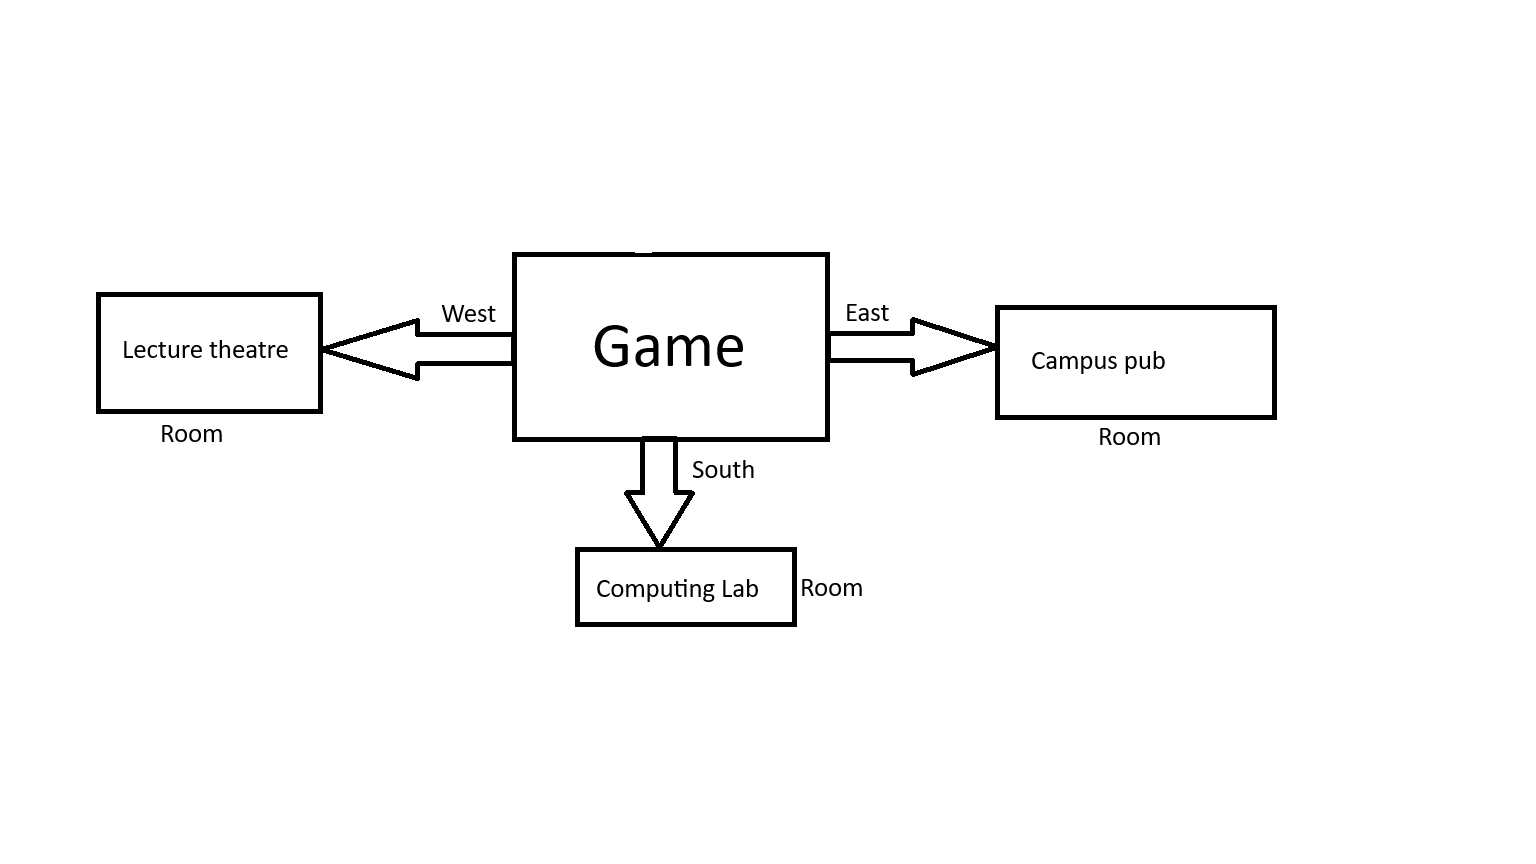
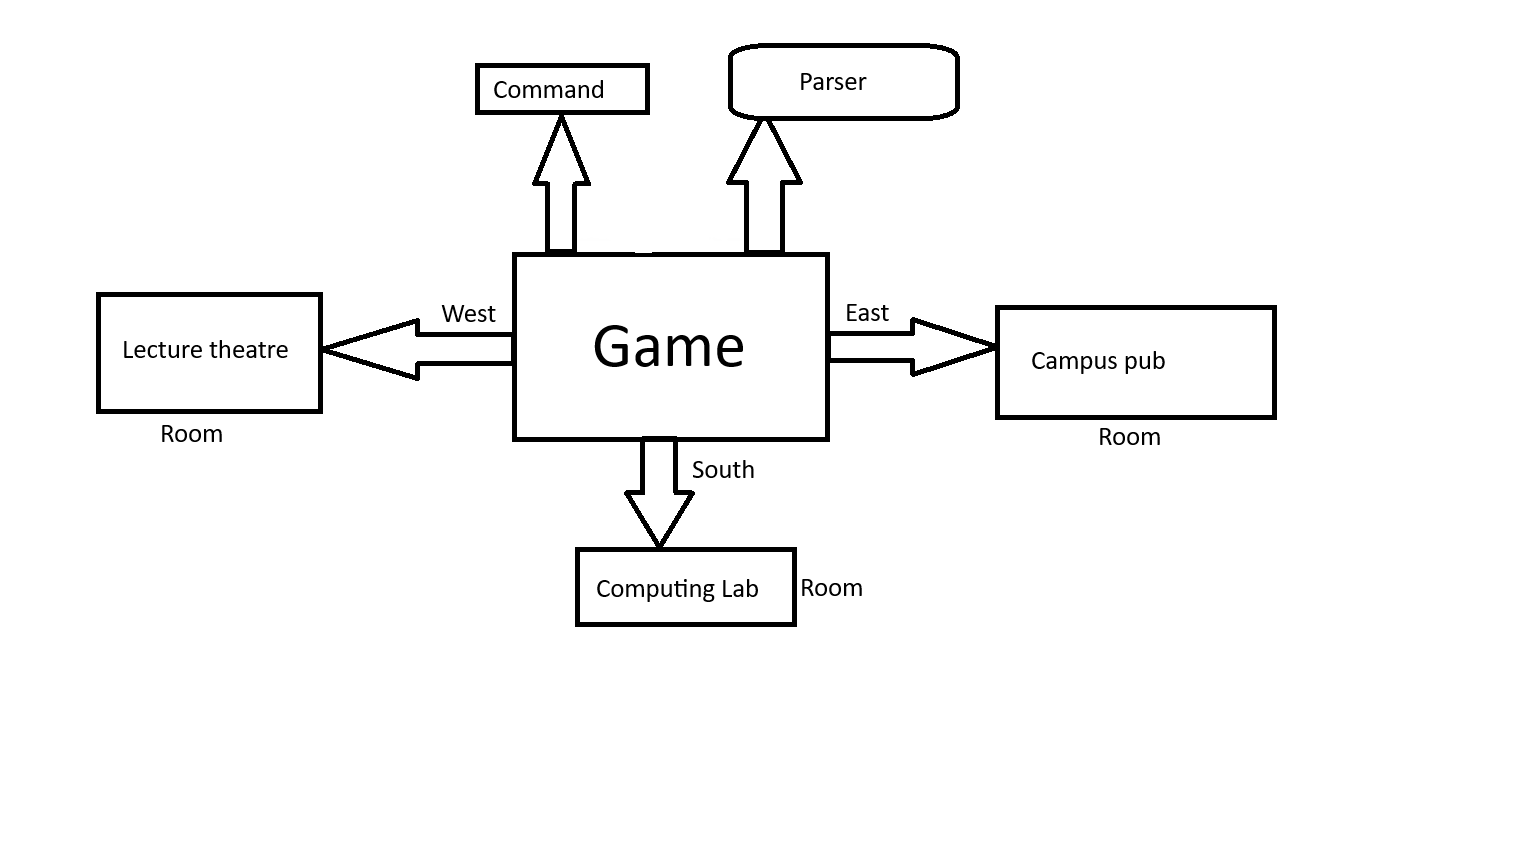
Lab 8, part I, #12 to 16.

Changed region(s): [[0.4688, 0.0312, 0.625, 0.2812], [0.2812, 0.0625, 0.4375, 0.3125]]

diff --git a/Game.java b/Game.java
@@ -113,6 +113,13 @@ public class Game
         else if (commandWord.equals("quit")) {
             wantToQuit = quit(command);
         }
+        else if (commandWord.equals("look")) {
+            System.out.println(currentRoom.getLongDescription());
+            printLocationInfo();
+        }
+        else if (commandWord.equals("eat")) {
+            System.out.println("You have eaten now and you are not hungry any more.");
+        }
 
         return wantToQuit;
     }
@@ -130,7 +137,7 @@ public class Game
         System.out.println("around at the university.");
         System.out.println();
         System.out.println("Your command words are:");
-        System.out.println("   go quit help");
+        parser.showAllCommands();
     }
 
     /** 

diff --git a/CommandWords.java b/CommandWords.java
@@ -13,7 +13,7 @@ public class CommandWords
 {
     // A constant array that holds all valid command words.
     private static final String[] validCommands = {
-        "go", "quit", "help"
+        "go", "quit", "help", "look", "eat"
     };
 
     /**
@@ -38,5 +38,13 @@ public class CommandWords
         }
         // if we get here, the string was not found in the commands
         return false;
+    }
+    
+    public void showAll() 
+    {
+        for(String command: validCommands) {
+            System.out.print(command + "  ");
+        }
+        System.out.println();
     }
 }

diff --git a/Parser.java b/Parser.java
@@ -64,4 +64,9 @@ public class Parser
             return new Command(null, word2); 
         }
     }
+    
+    public void showAllCommands()
+    {
+        commands.showAll();
+    }
 }
